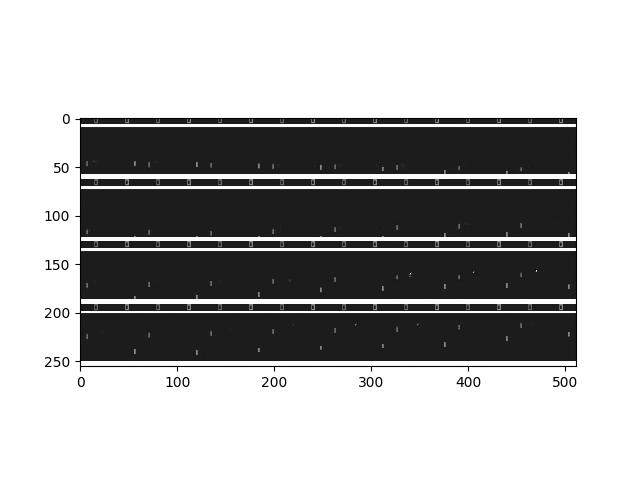
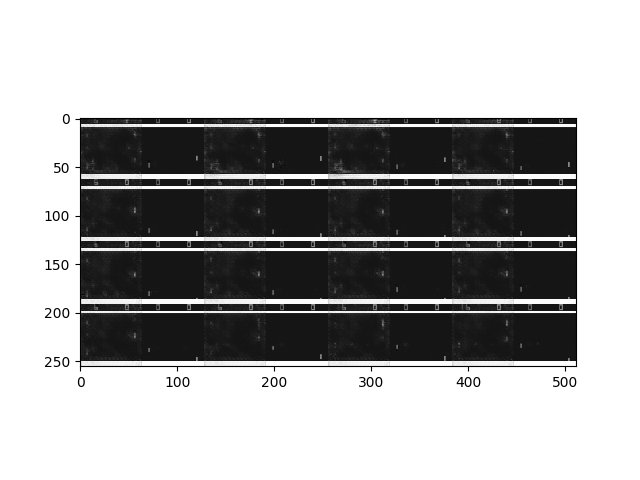
Check dynamics learning

diff --git a/3dvae/3dvae.py b/3dvae/3dvae.py
@@ -79,11 +79,10 @@ def train_simulator():
             simulator.save_model()
         print('[Epoch {}] Loss: {}'.format(epoch, loss))
 
-    x = state_pairs[0,0]
-    sim_x = [x]
-    for i in range(32):
-        x = simulator.forward([x])[0]
-        sim_x.append(x)
+    sim_x = []
+    for i in range(16):
+        sim_x.append(simulator.forward([state_pairs[i,0]])[0])
+        sim_x.append(state_pairs[i,1])
     simulator.close_session()
 
     #ae = VanillaAutoencoder([None,64,64,1], 1e-3, batch_size, latent_dim)
